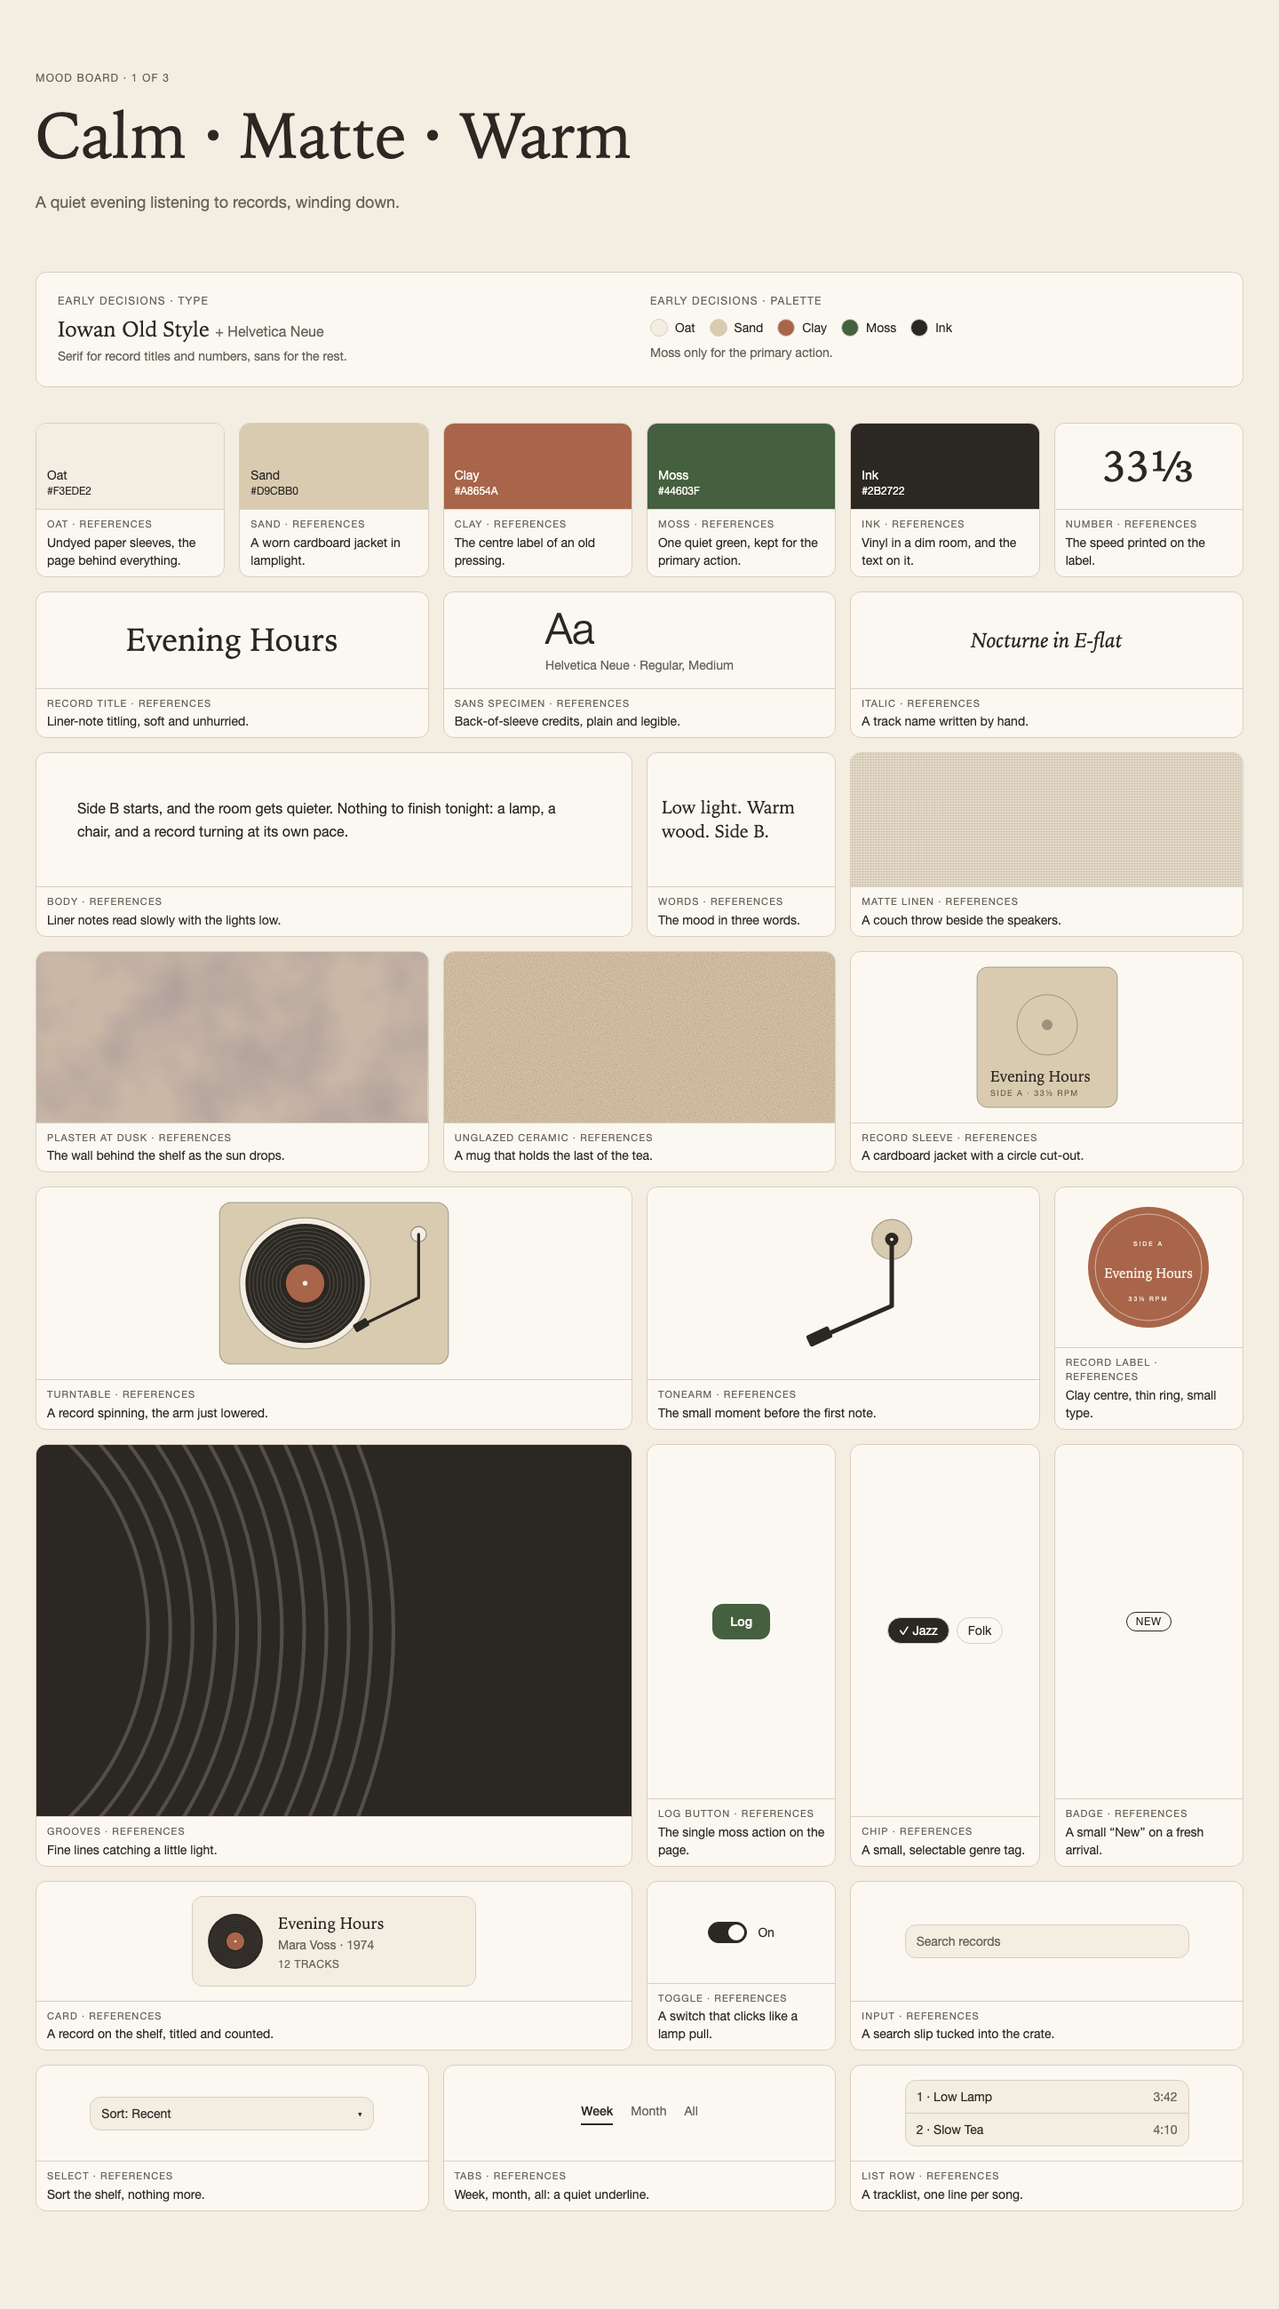
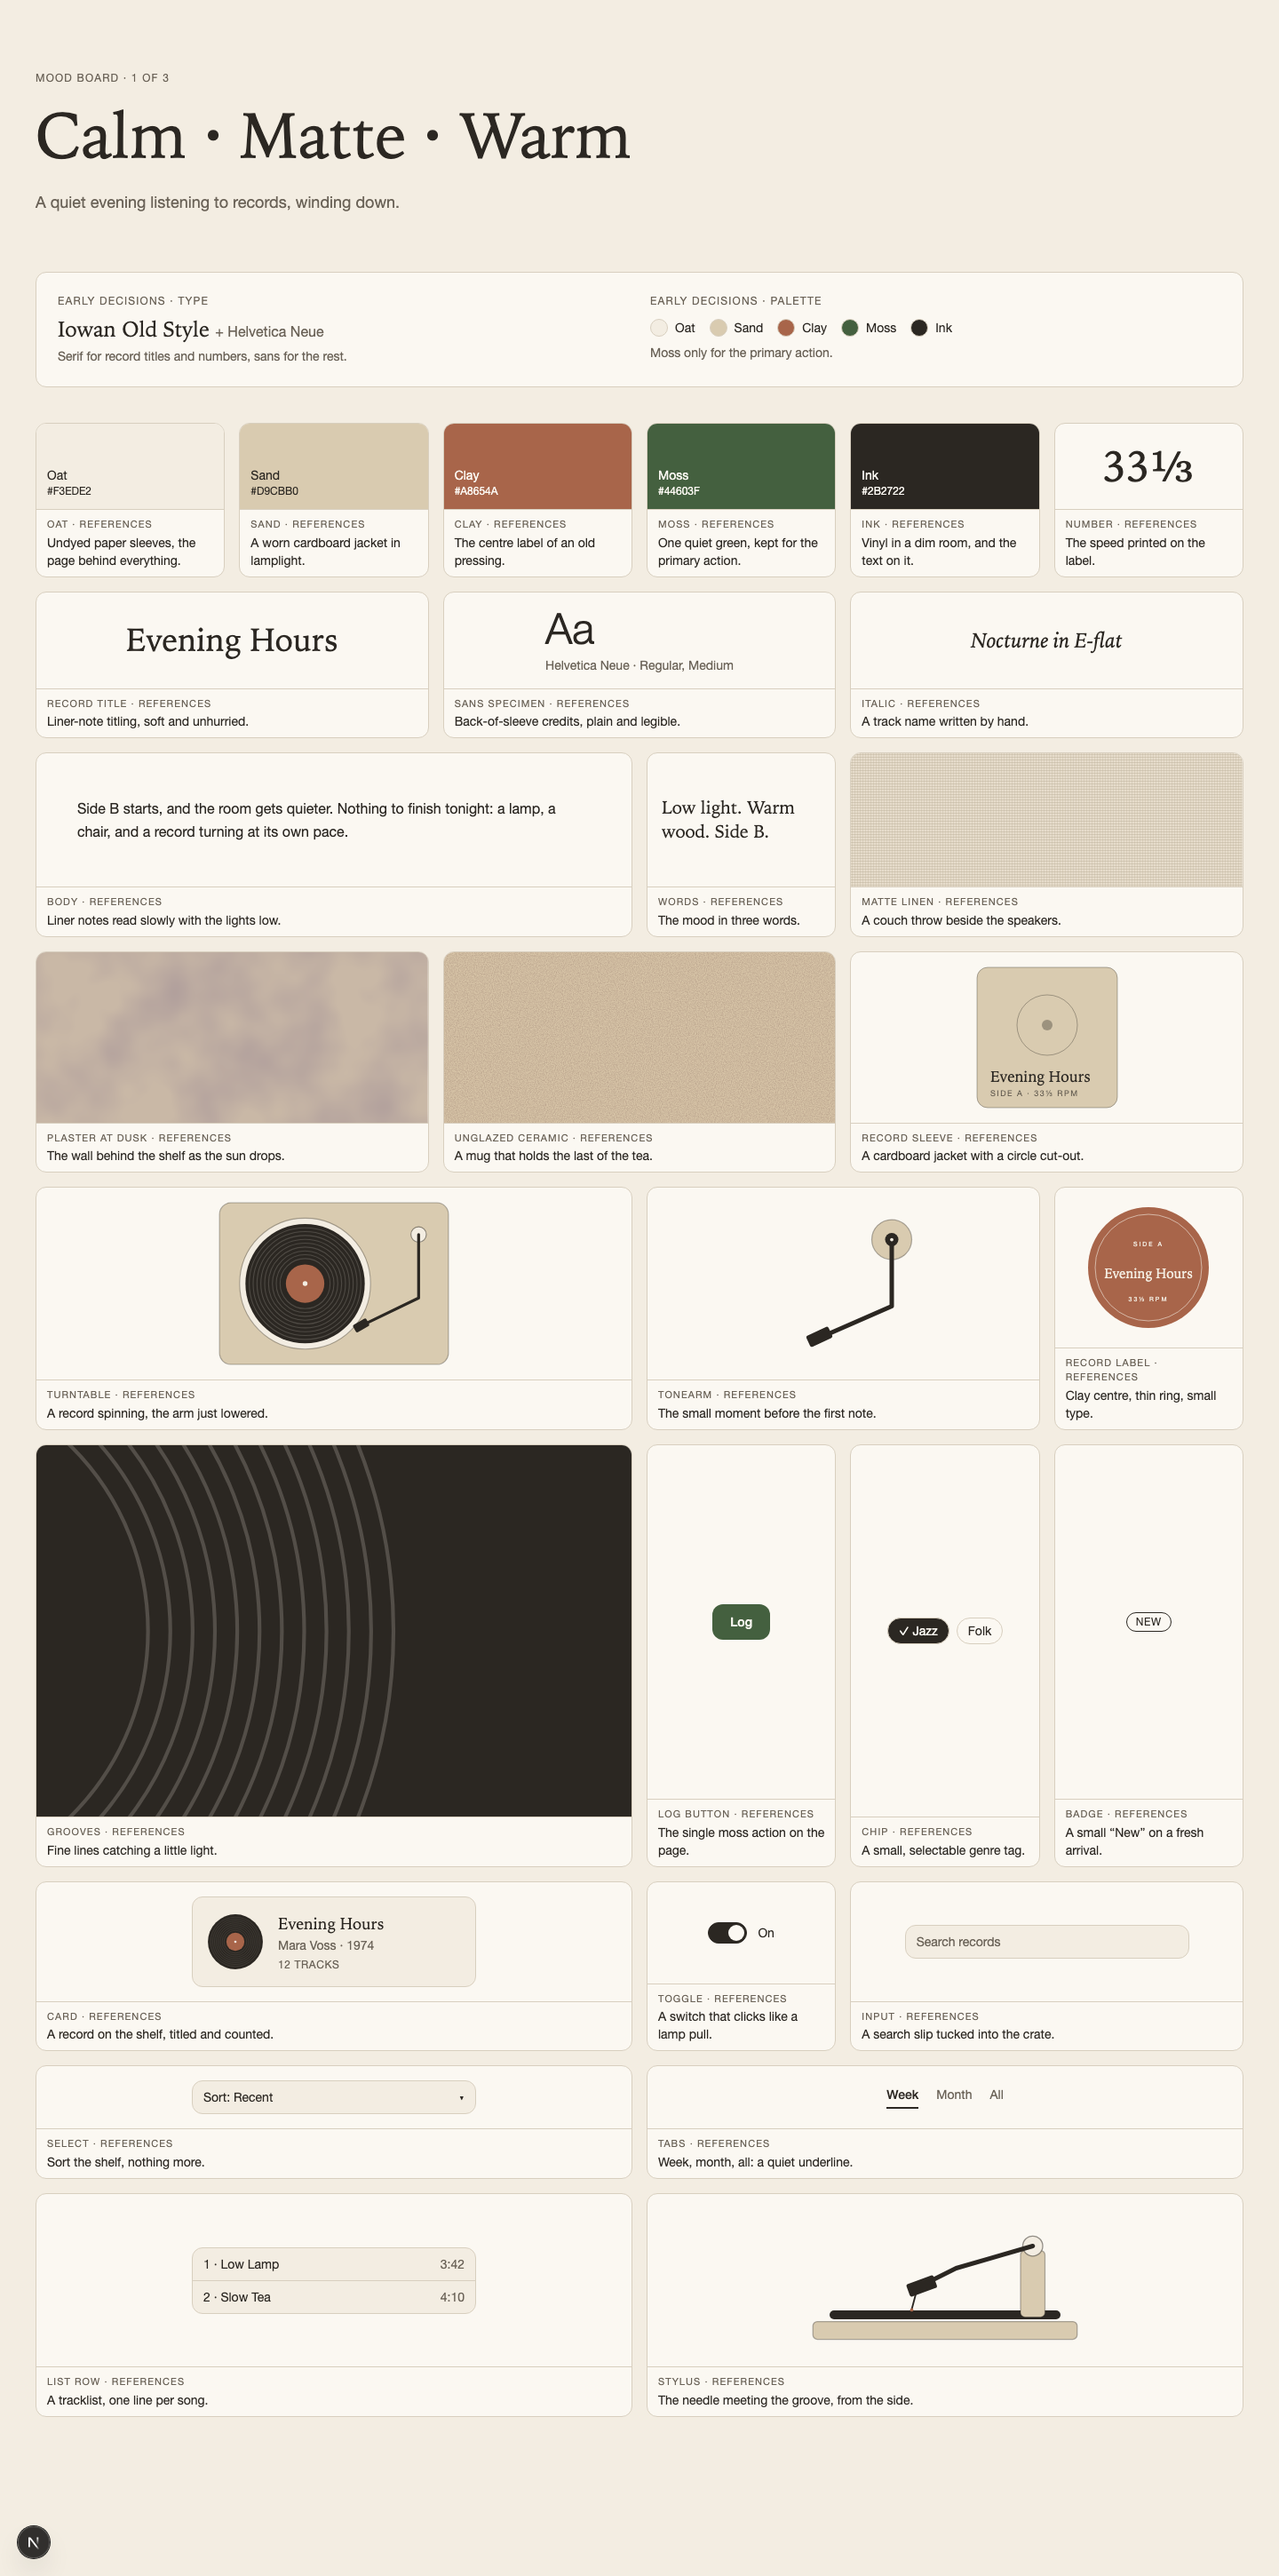
Add stylus side-view artifact to Calm mood board

diff --git a/app/mood-boards/calm/page.tsx b/app/mood-boards/calm/page.tsx
@@ -1,6 +1,6 @@
 import type { Metadata } from "next";
 import type { ReactNode } from "react";
-import { GrooveDetail, Label, Record, Sleeve, Texture, Tonearm, Turntable } from "./art";
+import { GrooveDetail, Label, Record, Sleeve, Stylus, Texture, Tonearm, Turntable } from "./art";
 
 export const metadata: Metadata = { title: "Calm · Matte · Warm — Mood Board" };
 
@@ -208,7 +208,7 @@ const ARTIFACTS: Artifact[] = [
   },
   {
     name: "Select",
-    size: "m",
+    size: "l",
     ref: "Sort the shelf, nothing more.",
     node: (
       <div className="flex w-full max-w-xs items-center justify-between rounded-calm border border-line bg-oat px-3 py-2 text-sm">
@@ -219,7 +219,7 @@ const ARTIFACTS: Artifact[] = [
   },
   {
     name: "Tabs",
-    size: "m",
+    size: "l",
     ref: "Week, month, all: a quiet underline.",
     node: (
       <div className="flex gap-5 text-sm" role="tablist">
@@ -231,7 +231,7 @@ const ARTIFACTS: Artifact[] = [
   },
   {
     name: "List row",
-    size: "m",
+    size: "l",
     ref: "A tracklist, one line per song.",
     node: (
       <ul className="w-full max-w-xs divide-y divide-line rounded-calm border border-line bg-oat text-sm">
@@ -239,6 +239,12 @@ const ARTIFACTS: Artifact[] = [
         <li className="flex justify-between px-3 py-2"><span>2 · Slow Tea</span><span className="text-muted">4:10</span></li>
       </ul>
     ),
+  },
+  {
+    name: "Stylus",
+    size: "l",
+    ref: "The needle meeting the groove, from the side.",
+    node: <Stylus />,
   },
 ];
 

diff --git a/app/mood-boards/calm/art.tsx b/app/mood-boards/calm/art.tsx
@@ -133,3 +133,18 @@ export function Texture({ kind }: { kind: "linen" | "plaster" | "ceramic" }) {
     </svg>
   );
 }
+
+export function Stylus() {
+  return (
+    <svg viewBox="0 0 240 130" className="w-full max-w-[300px]" role="img" aria-label="Stylus touching a record, side view">
+      <rect x="1" y="102" width="238" height="16" rx="4" fill={C.sand} stroke={C.ink} strokeOpacity={0.35} />
+      <rect x="16" y="92" width="208" height="8" rx="4" fill={C.ink} />
+      <rect x="188" y="38" width="22" height="60" rx="4" fill={C.sand} stroke={C.ink} strokeOpacity={0.35} />
+      <circle cx="199" cy="34" r="9" fill={C.oat} stroke={C.ink} strokeOpacity={0.5} />
+      <path d="M199 34 L130 54 L106 66" fill="none" stroke={C.ink} strokeWidth="4" strokeLinecap="round" strokeLinejoin="round" />
+      <rect x="86" y="64" width="26" height="12" rx="2" transform="rotate(-20 99 70)" fill={C.ink} />
+      <path d="M94 76 L90 91" stroke={C.ink} strokeWidth="1.5" strokeLinecap="round" />
+      <circle cx="90" cy="91.5" r="1.5" fill={C.clay} />
+    </svg>
+  );
+}
